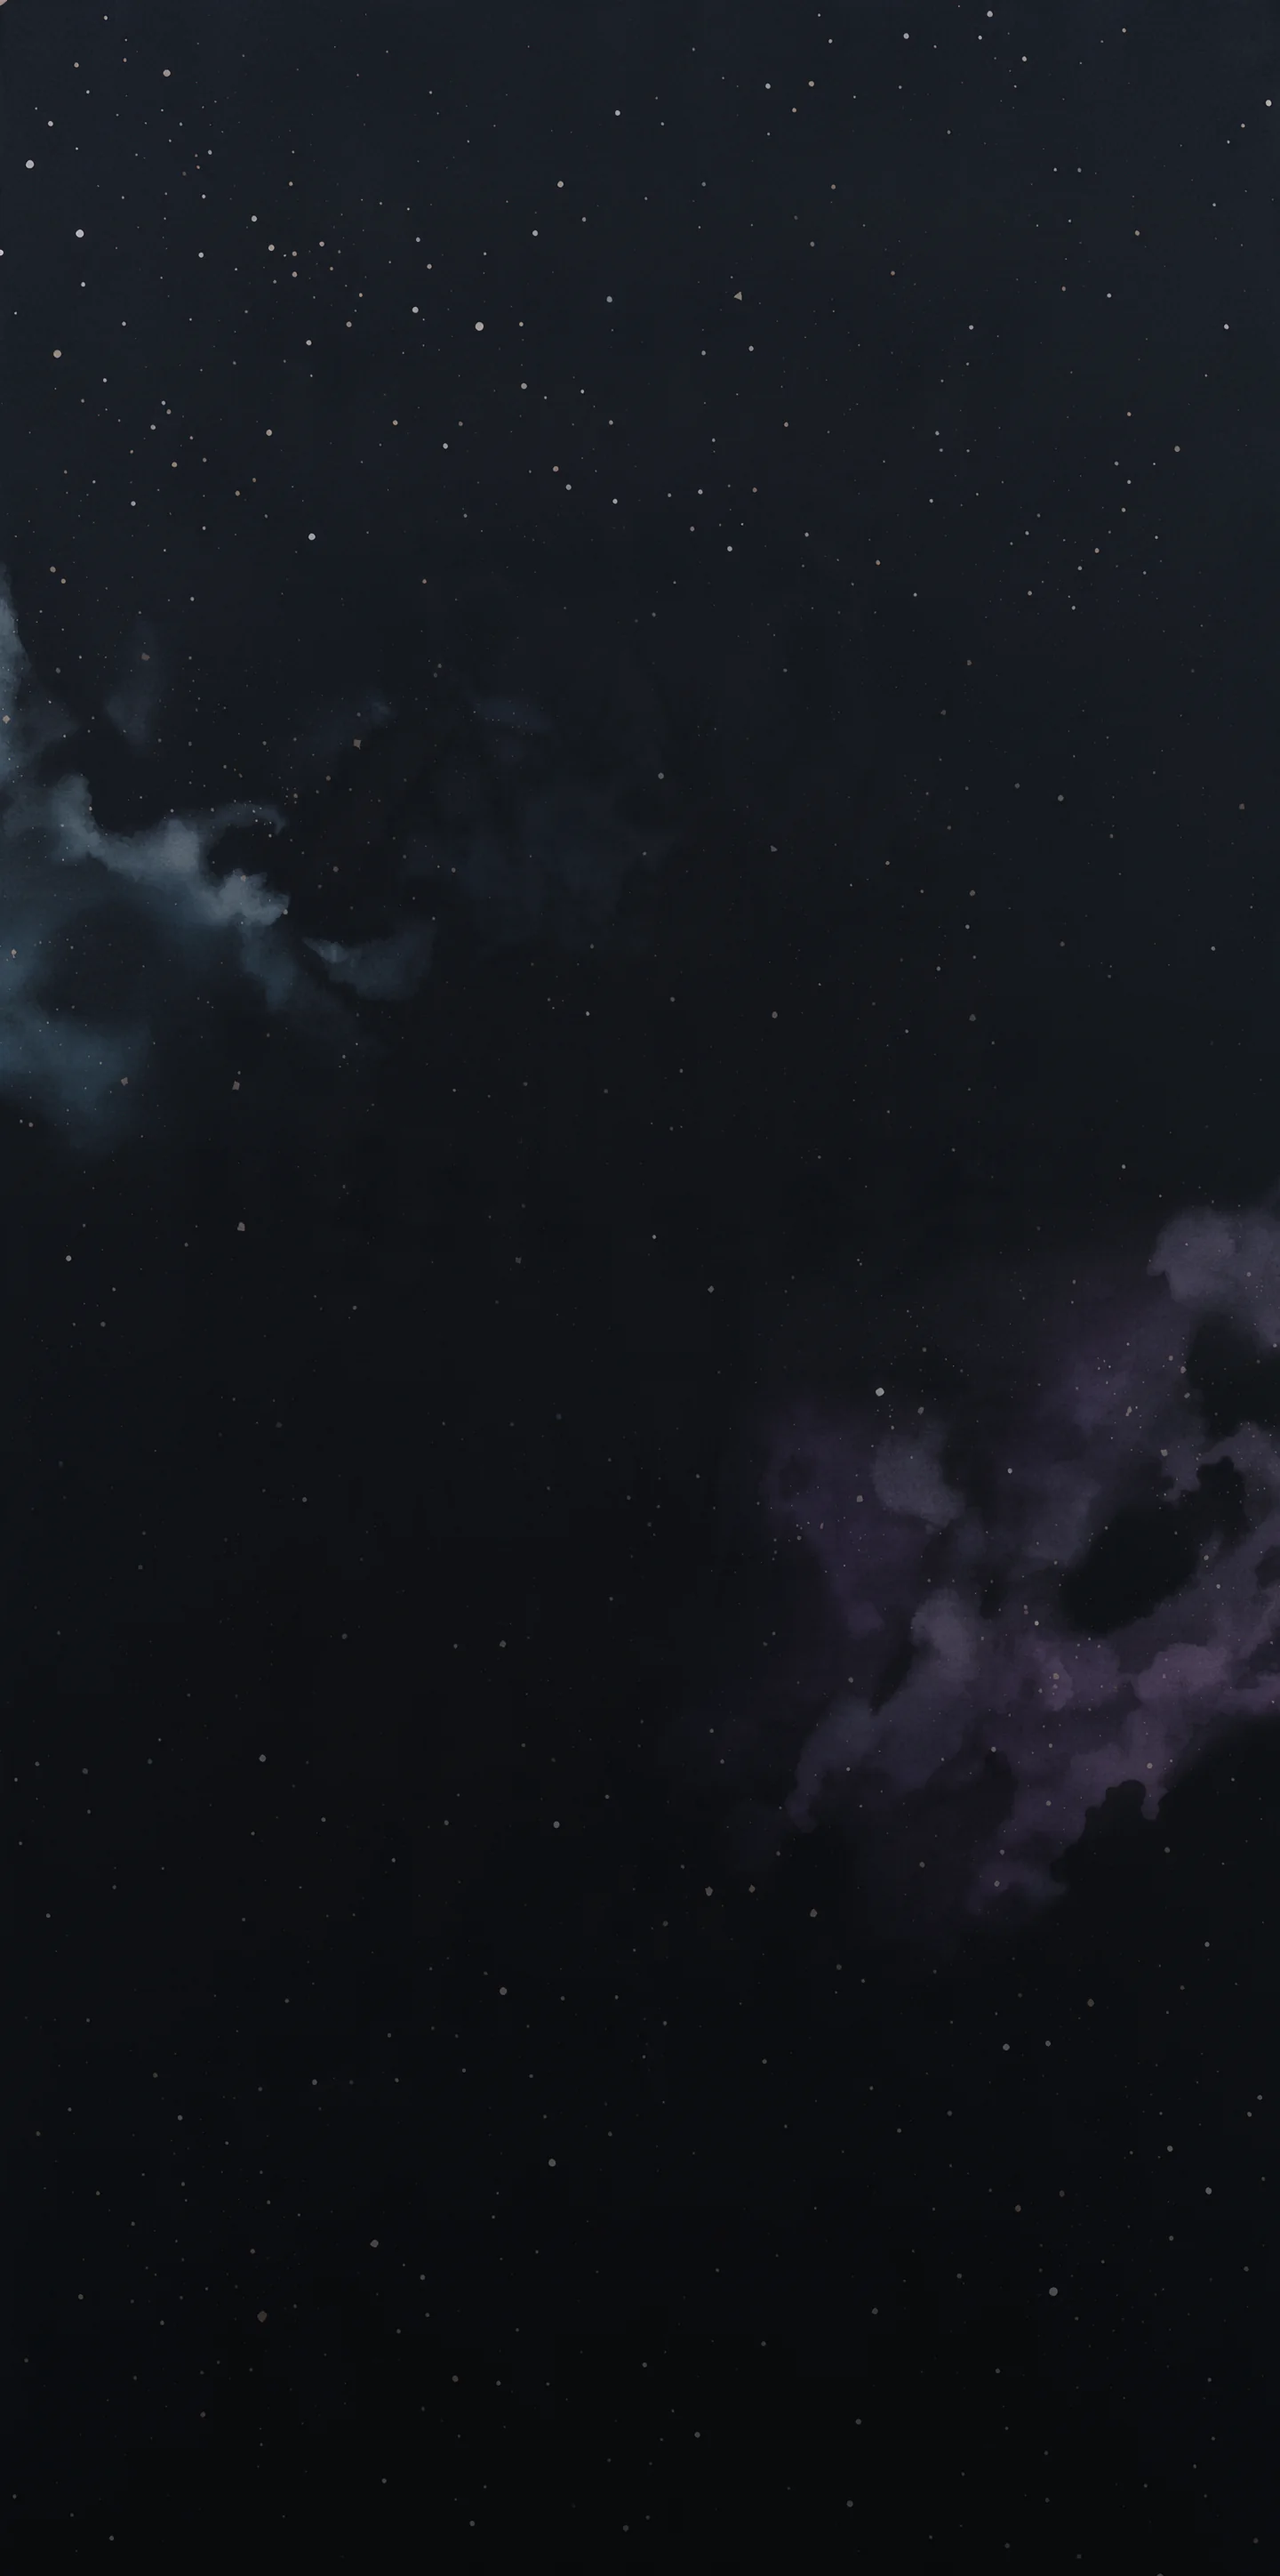
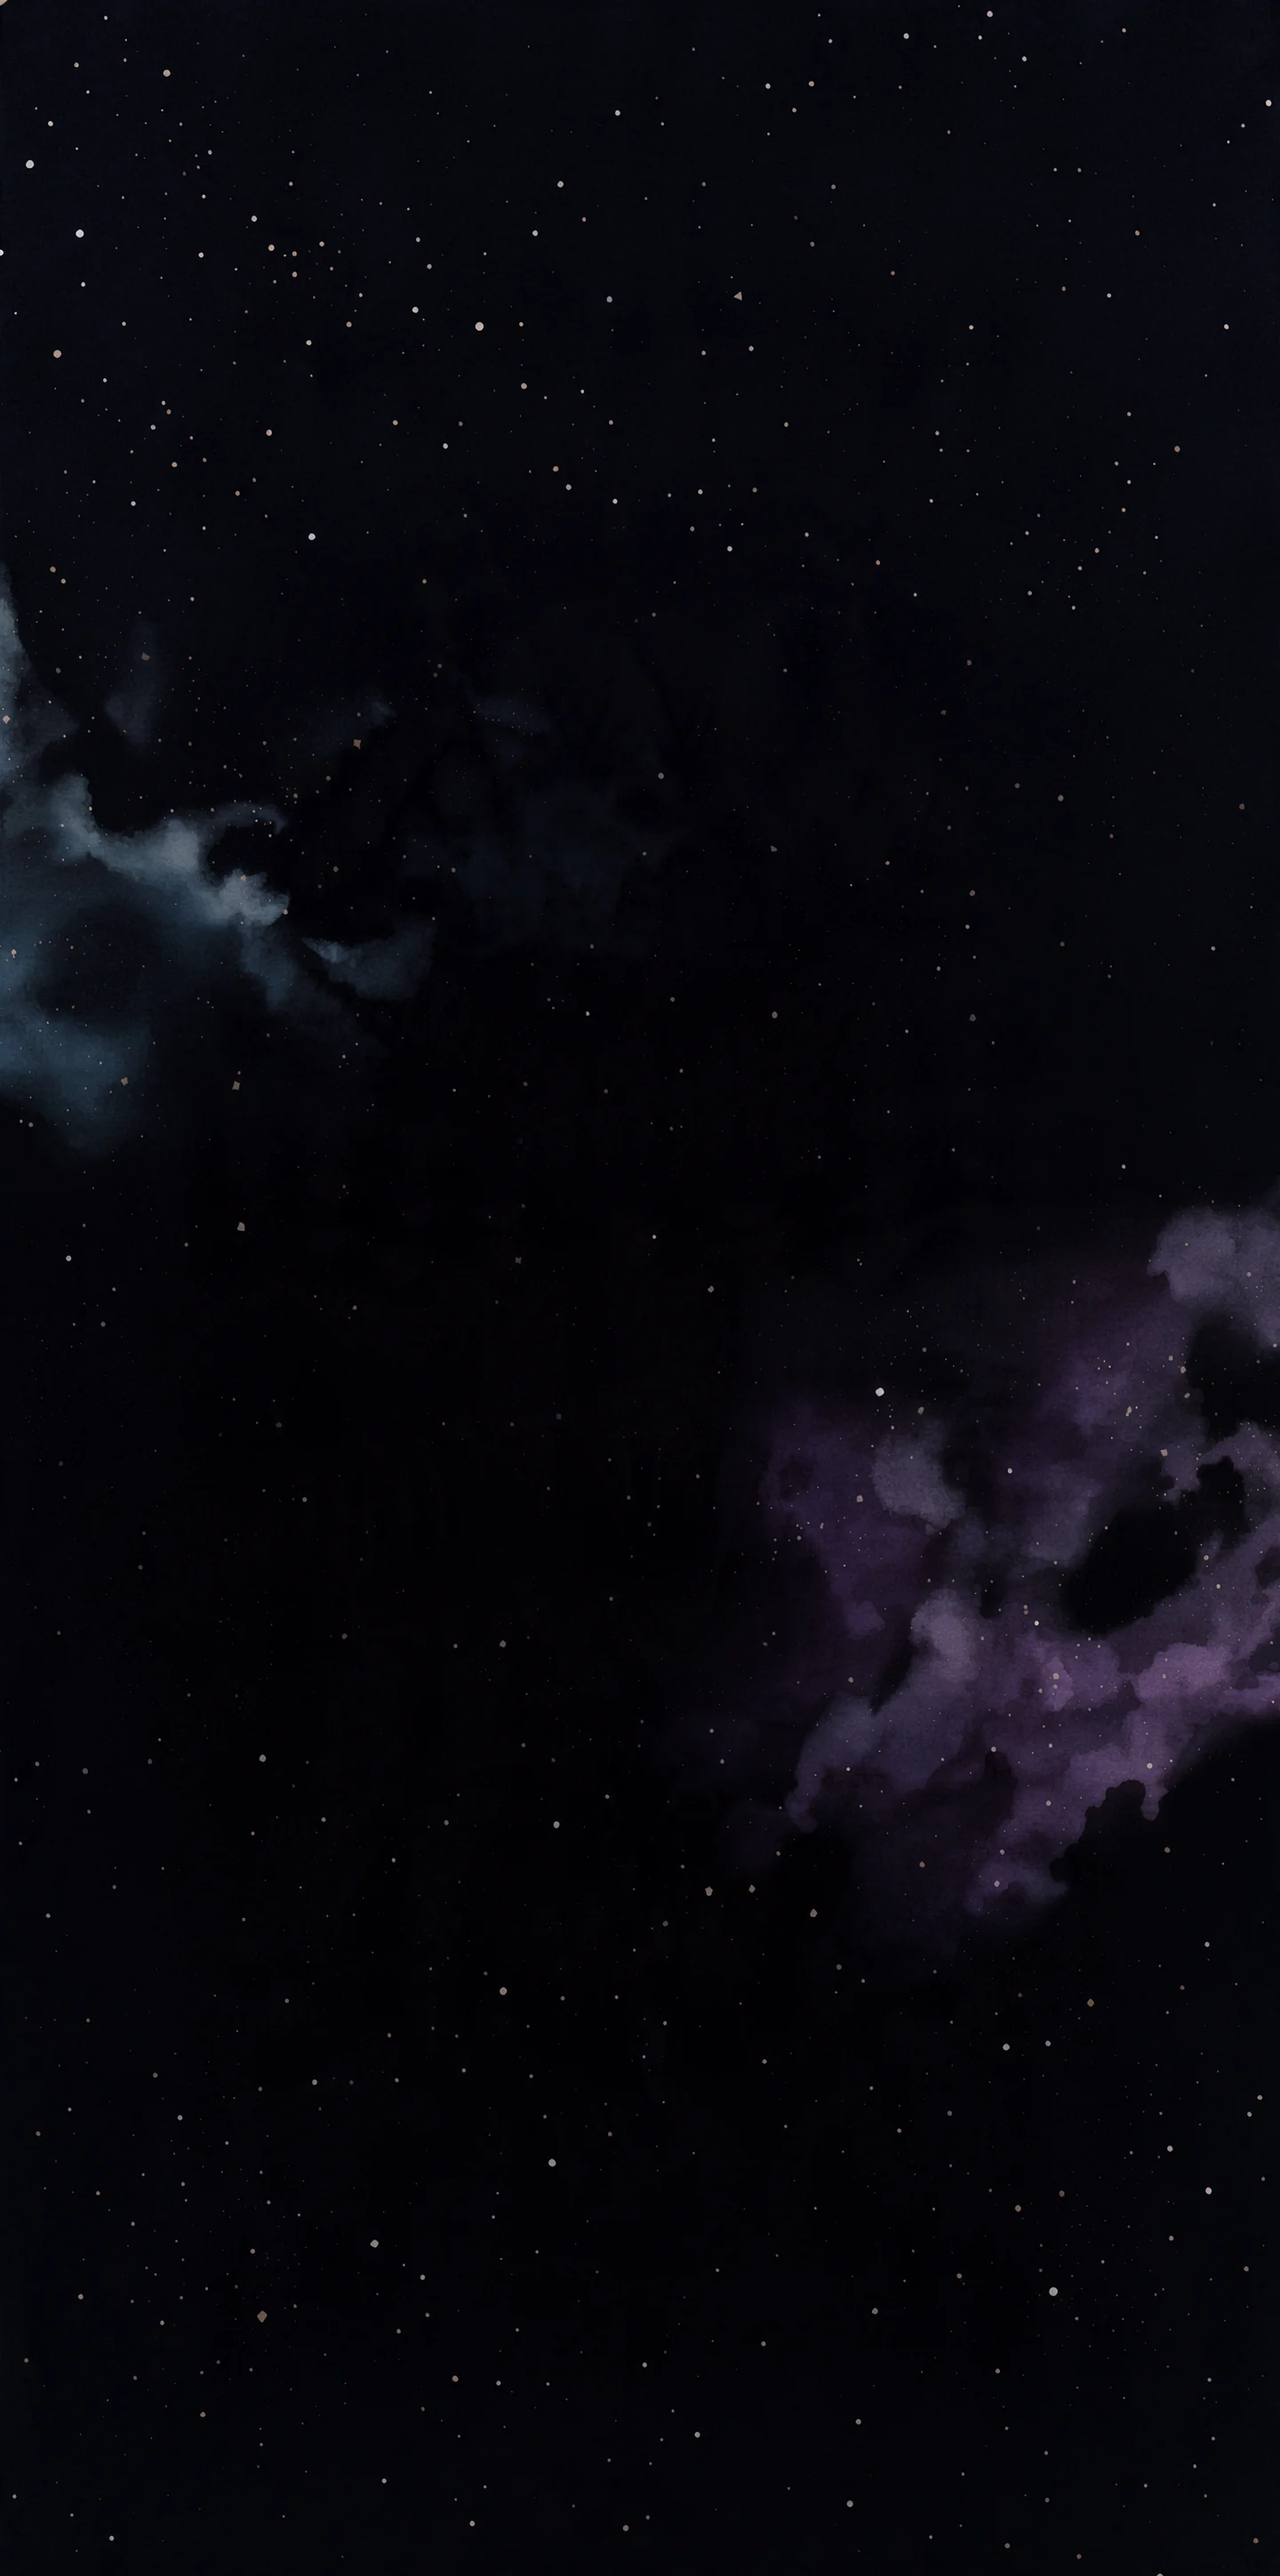
Background: plain dark sky (no grey wash), fewer stars, much darker from the work section down

diff --git a/app/src/components/space-backdrop.tsx b/app/src/components/space-backdrop.tsx
@@ -9,7 +9,7 @@ import { Galaxy } from './galaxy'
  * On top, a fixed layer of twinkling stars and the occasional comet keeps it alive
  * wherever you are on the page.
  */
-export const SPACE_BOTTOM = '#090a0d'
+export const SPACE_BOTTOM = '#050509'
 
 export function SpaceBackdrop() {
   return (
@@ -22,6 +22,12 @@ export function SpaceBackdrop() {
           alt=""
           className="block h-auto w-full select-none"
           draggable={false}
+        />
+        {/* From the work section down the sky gets much darker, so the cards sit on quiet black.
+            The intro is 150svh tall; the fade starts just before it ends. */}
+        <div
+          className="absolute inset-x-0 bottom-0 top-[120svh]"
+          style={{ background: 'linear-gradient(to bottom, rgb(5 5 9 / 0) 0, rgb(5 5 9 / 0.7) 60svh, rgb(5 5 9 / 0.85) 100%)' }}
         />
       </div>
       <Galaxy overlay className="pointer-events-none fixed inset-0 -z-10 size-full" />

diff --git a/app/src/components/galaxy.tsx b/app/src/components/galaxy.tsx
@@ -38,7 +38,7 @@ export function Galaxy({ className, overlay = false }: { className?: string; ove
     const pointer = { x: 0, y: 0, tx: 0, ty: 0 }
 
     const seedStars = () => {
-      const count = Math.round((w * h) / (overlay ? 7000 : 4200))
+      const count = Math.round((w * h) / (overlay ? 9000 : 4200))
       stars = Array.from({ length: count }, () => {
         const depth = Math.random() < 0.7 ? 0.25 : Math.random() < 0.8 ? 0.6 : 1
         const r = depth === 1 ? 0.6 + Math.random() * 0.6 : depth === 0.6 ? 0.4 + Math.random() * 0.4 : 0.25 + Math.random() * 0.3

diff --git a/app/src/index.css b/app/src/index.css
@@ -38,7 +38,7 @@
 
 html {
   /* Matches the bottom of the space painting (components/space-backdrop.tsx). */
-  background: #090a0d;
+  background: #050509;
   color: var(--fg);
   scrollbar-gutter: stable;
   -webkit-font-smoothing: antialiased;
